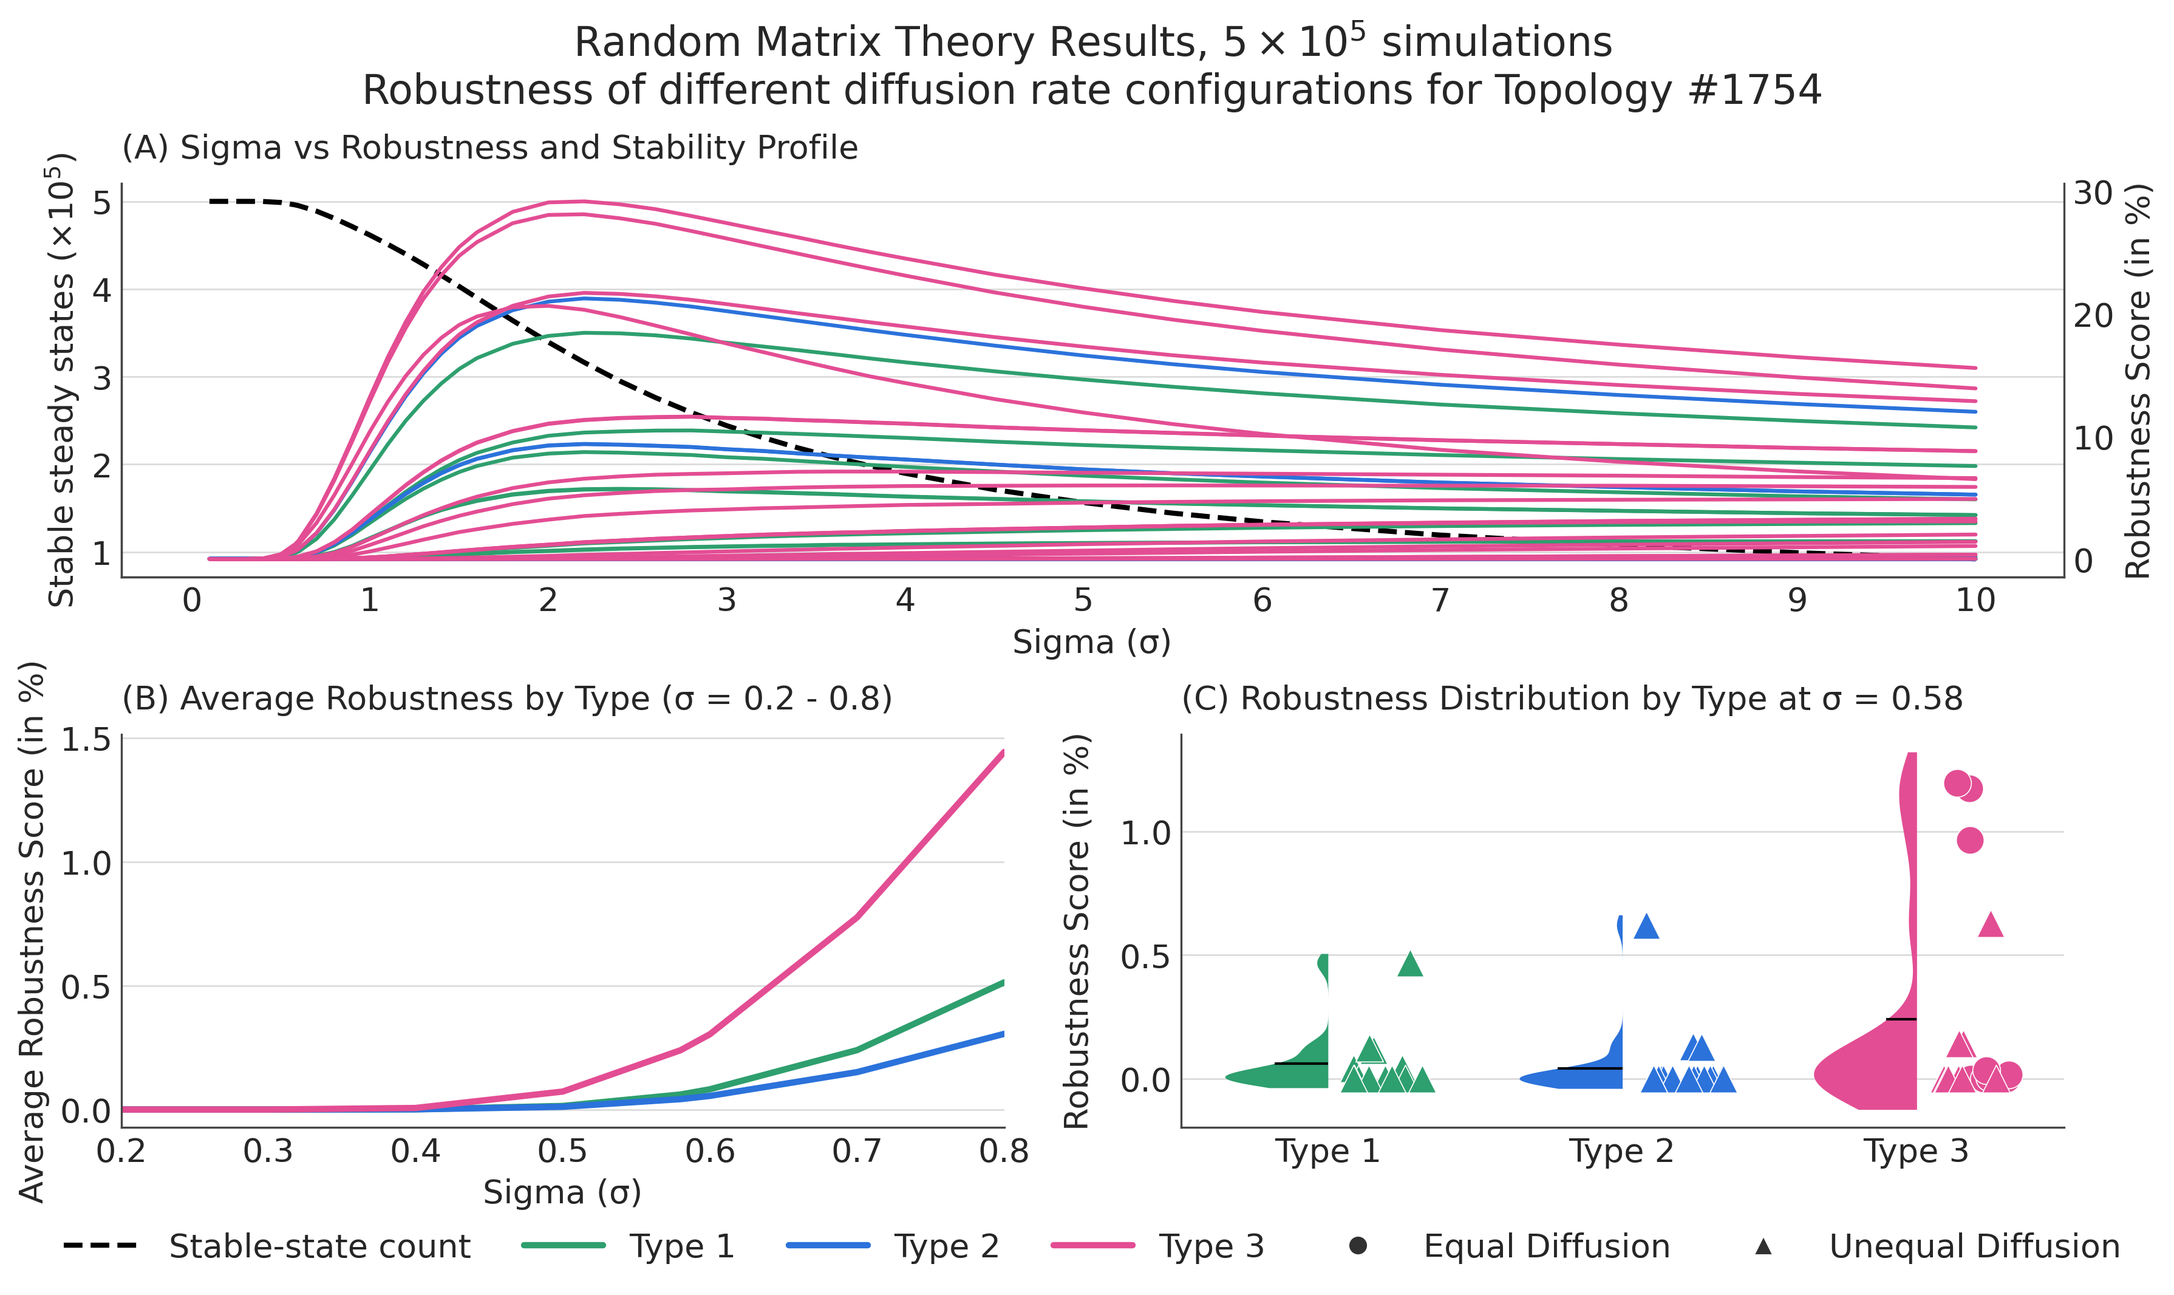
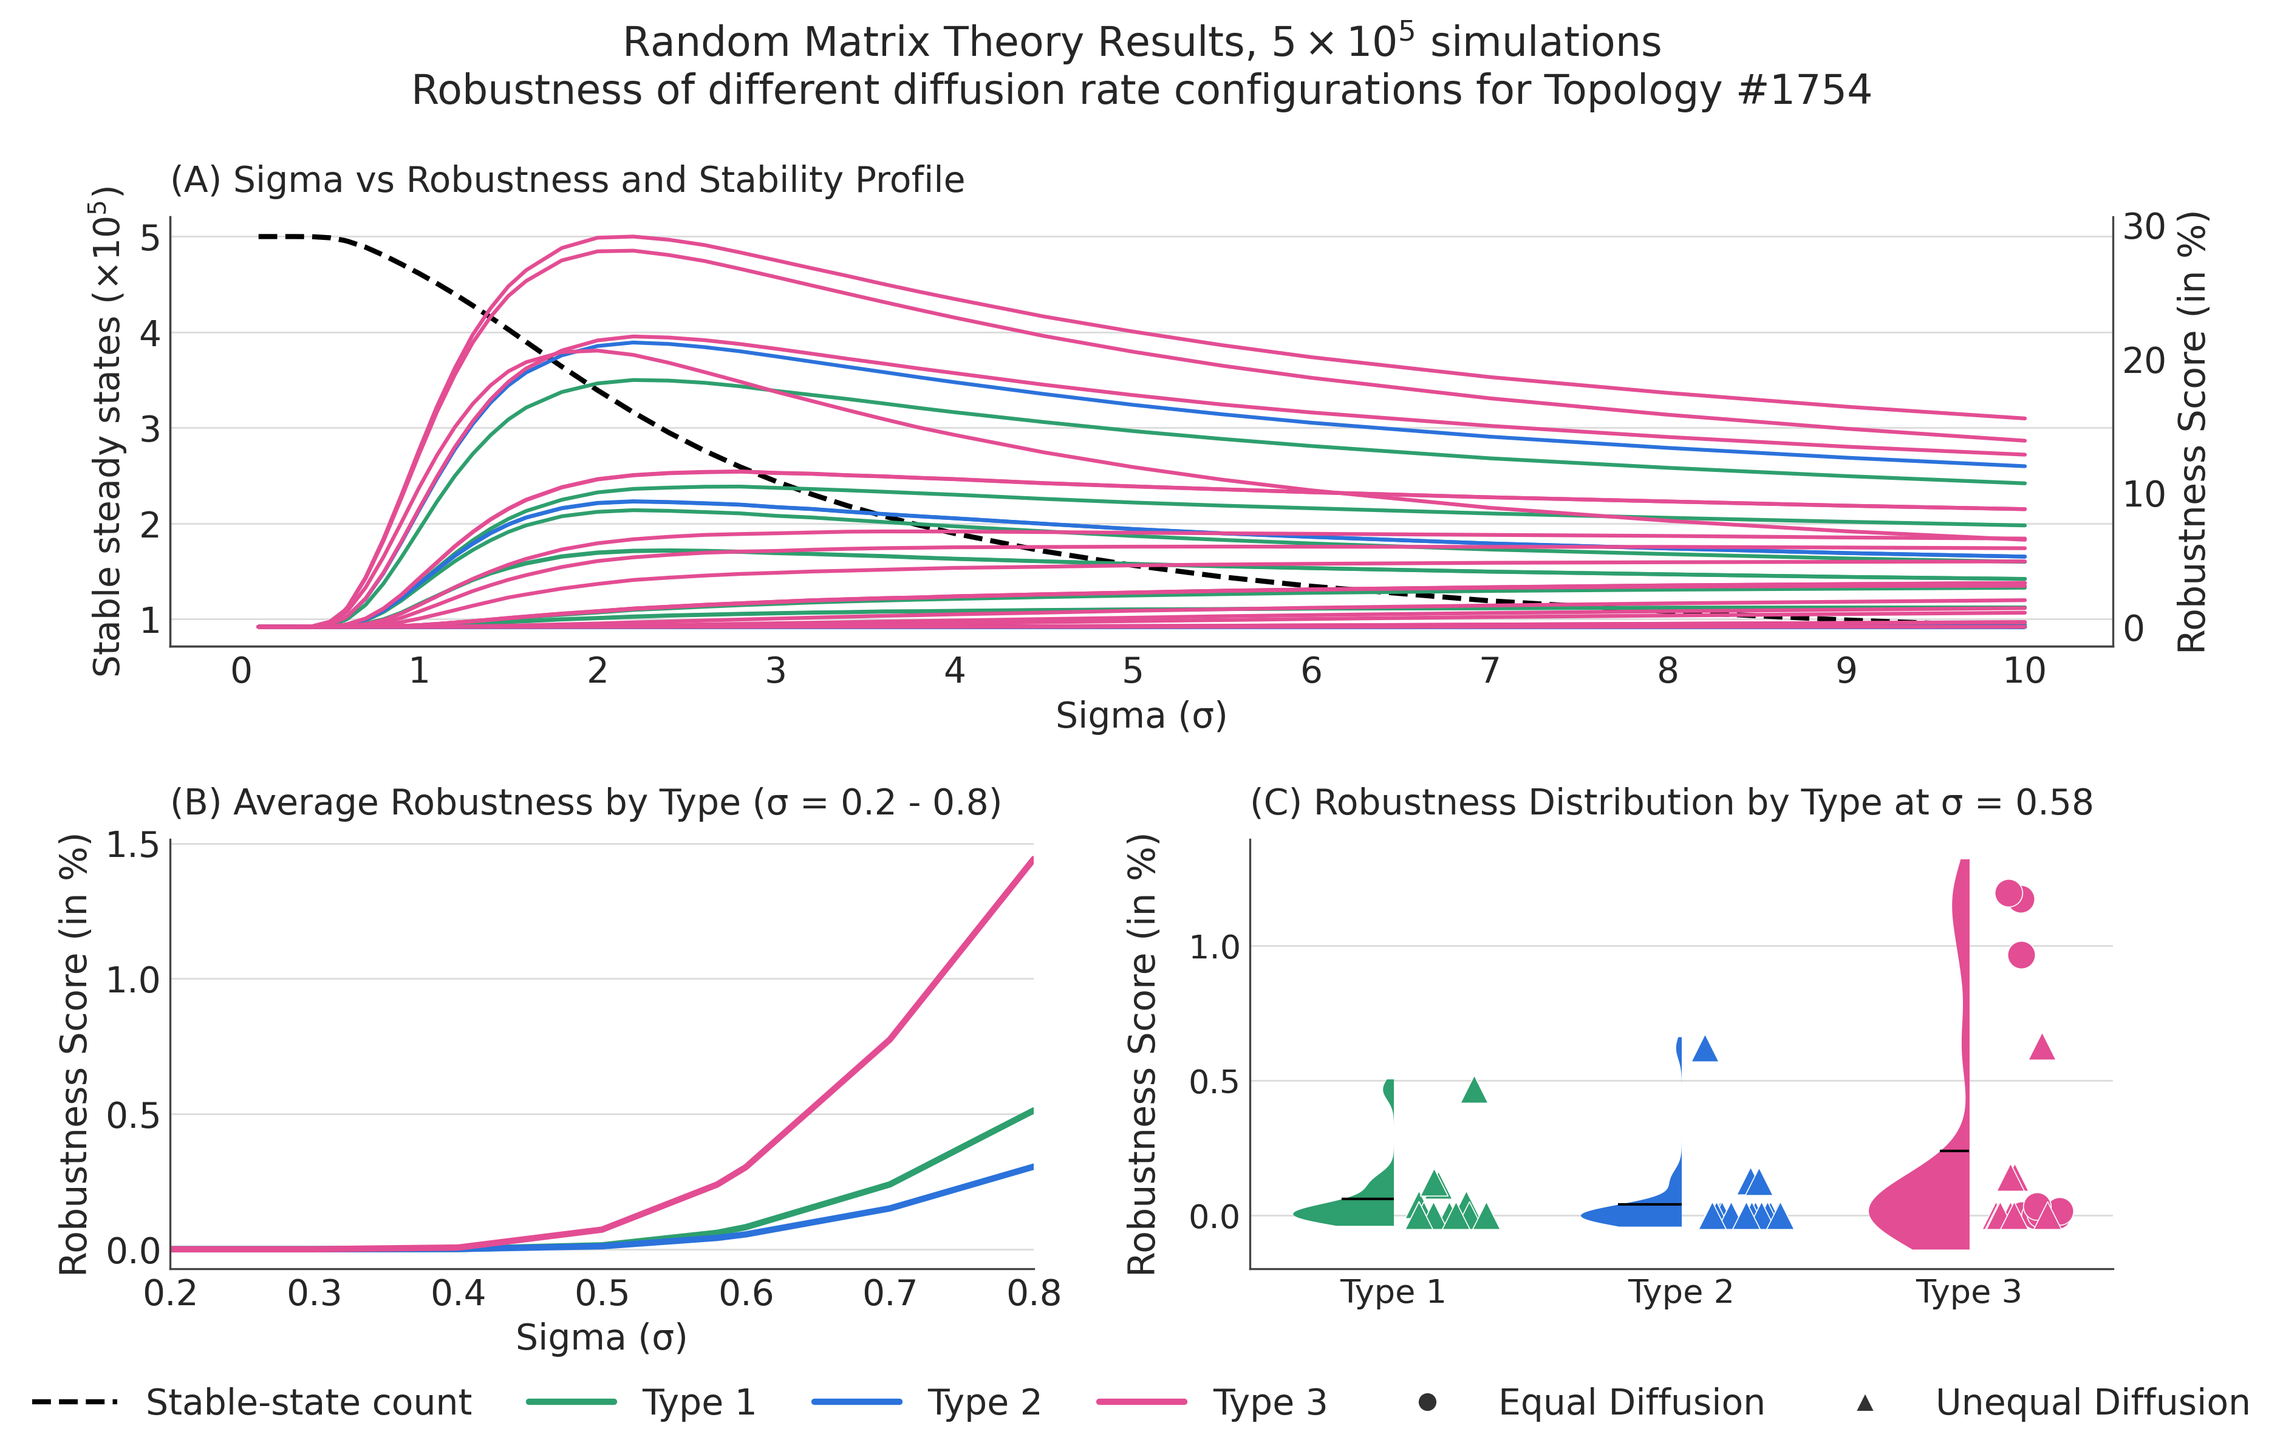
fixing the plots

diff --git a/TopologyRanking/Topology1754/rmt_plots_results_1754.py b/TopologyRanking/Topology1754/rmt_plots_results_1754.py
@@ -7,6 +7,7 @@ import matplotlib.lines as mlines
 import matplotlib.patches as mpatches
 from scipy.stats import gaussian_kde
 import matplotlib.gridspec as gridspec
+import matplotlib.ticker as mticker
 
 CSV     = "1754_FINAL_rmt_results_summary.csv"
 OUT_DIR = Path("plots")
@@ -41,151 +42,12 @@ def load_data():
     df["turing_type"] = df["config_name"].str.extract(r"(Type[123])")
     return df
 
-#TYPE_COLORS = {"Type1": 'lightseagreen', "Type2": 'teal', "Type3": 'mediumpurple',} 
 TYPE_COLORS = {"Type1": "#2E9F6E", "Type2": "#2B72DB", "Type3": "#E34D93"}
 
-
-# def complete_robustness_figure(df, sigma_val):
-#     random.seed(42)
-#     fig = plt.figure(figsize=(12.8, 7.5))
-#     gs = gridspec.GridSpec(2, 2, figure=fig, height_ratios=[1, 1])
-#     ax_stable = fig.add_subplot(gs[0, :])
-#     ax_avg = fig.add_subplot(gs[1, 0])
-#     ax_dot = fig.add_subplot(gs[1, 1])
-
-#     # # PANEL A: SIGMA VS ROBUSTNESS OVERVIEW (TOP ROW)
-#     # stable = df.groupby('sigma')['stable_without_diffusion'].first()
-#     # ax_stable.plot(stable.index, stable.values, color='black', linewidth=2, linestyle='--', label='Stable steady state count', zorder=5)
-#     # ax_stable.set_xticks(range(int(stable.index.min()), int(stable.index.max()) + 1))
-#     # ax_stable.set_xlabel('Sigma (σ)', fontsize=12)
-#     # ax_stable.set_ylabel('Number of stable steady states', fontsize=12)
-    
-#     # # ---> FIX FOR 10^X FORMATTING HERE <---
-#     # ax_stable.ticklabel_format(axis='y', style='sci', scilimits=(0,0))
-#     # ax_stable.yaxis.get_offset_text().set_fontsize(10)
-#     # ax_stable.xaxis.grid(False)
-
-#     # PANEL A: SIGMA VS ROBUSTNESS OVERVIEW (TOP ROW)
-#     stable = df.groupby('sigma')['stable_without_diffusion'].first()
-#     ax_stable.plot(stable.index, stable.values, color='black', linewidth=2, linestyle='--', label='Stable steady state count', zorder=5)
-#     ax_stable.set_xticks(range(int(stable.index.min()), int(stable.index.max()) + 1))
-#     ax_stable.set_xlabel('Sigma (σ)', fontsize=12)
-#     ax_stable.set_ylabel('Number of stable steady states', fontsize=12)
-    
-#     # ---> FIX FOR ADVANCED SCIENTIFIC NOTATION <---
-#     import matplotlib.ticker as mticker
-#     def sci_notation(x, pos):
-#         if x == 0: return "0"
-#         exponent = int(np.floor(np.log10(abs(x))))
-#         base = x / (10 ** exponent)
-#         if abs(base - 1) < 1e-9:
-#             return f"$10^{{{exponent}}}$"
-#         # Using a clean format string with an integer cast for the base multiplier
-#         return f"${int(base)} \\times 10^{{{exponent}}}$"
-
-#     ax_stable.yaxis.set_major_formatter(mticker.FuncFormatter(sci_notation))
-#     ax_stable.xaxis.grid(False)
-
-#     ax_rob = ax_stable.twinx()
-#     labeled_types = set()
-#     for cfg in df['config_name'].unique():
-#         subset = df[df['config_name'] == cfg].sort_values('sigma')
-#         t_type = subset['turing_type'].iloc[0]
-#         line_color = TYPE_COLORS.get(t_type, 'black')
-#         formatted_label = f"Type {t_type[-1]}" if t_type else "Unknown Type"
-        
-#         if t_type not in labeled_types:
-#             label = formatted_label
-#             labeled_types.add(t_type)
-#         else:
-#             label = ""
-#         ax_rob.plot(subset['sigma'], subset['rob_shaberi_total'], color=line_color, linewidth=1.5, label=label, zorder=3)
-
-#     ax_rob.set_ylabel('Robustness Score (in %)', fontsize=12)
-#     ax_rob.spines['right'].set_visible(True)
-#     ax_rob.spines['top'].set_visible(False)
-#     ax_rob.yaxis.grid(False)
-#     ax_rob.xaxis.grid(False)
-
-#     ax_stable.set_title('(A) Sigma vs Robustness and Stability Profile', fontsize=12.5, loc='left', pad=10)
-#     lines1, labels1 = ax_stable.get_legend_handles_labels()
-#     lines2, labels2 = ax_rob.get_legend_handles_labels()
-#     ax_stable.legend(lines1 + lines2, labels1 + labels2, frameon=False, loc='upper center', bbox_to_anchor=(0.5, -0.15), ncol=4)
-
-#     # PANEL B: FOCUSED AVERAGE ROBUSTNESS LINE (BOTTOM LEFT)
-#     focused_df = df[(df['sigma'] >= 0.2) & (df['sigma'] <= 0.8)].copy()
-#     avg_df = focused_df.groupby(['sigma', 'turing_type'])['rob_shaberi_total'].mean().reset_index()
-#     types = ['Type1', 'Type2', 'Type3']
-#     labels = ['Type 1 Average', 'Type 2 Average', 'Type 3 Average']
-#     for t, label in zip(types, labels):
-#         subset = avg_df[avg_df['turing_type'] == t].sort_values('sigma')
-#         if subset.empty:
-#             continue
-#         color = TYPE_COLORS.get(t, 'black')
-#         ax_avg.plot(subset['sigma'], subset['rob_shaberi_total'], color=color, linewidth=2.5, label=label)
-
-#     ax_avg.set_xlabel('Sigma (σ)', fontsize=11)
-#     ax_avg.set_ylabel('Average Robustness Score (in %)', fontsize=12)
-#     ax_avg.set_xlim(0.2, 0.8)
-#     ax_avg.spines[['top', 'right']].set_visible(False)
-#     ax_avg.xaxis.grid(False)
-#     ax_avg.yaxis.grid(True)
-#     ax_avg.set_title('(B) Average Robustness by Diffusion Type (σ = 0.2 to 0.8)', fontsize=12, loc='left', pad=10)
-#     ax_avg.legend(frameon=False, loc='upper center', bbox_to_anchor=(0.5, -0.15), ncol=3)
-
-#     # PANEL C: RAINCLOUD DOT PLOT AT FIXED SIGMA (BOTTOM RIGHT)
-#     subset_df = df[df['sigma'] == sigma_val].copy()
-#     dot_labels = ['Type 1', 'Type 2', 'Type 3']
-#     for i, t in enumerate(types):
-#         t_data = subset_df[subset_df['turing_type'] == t]['rob_shaberi_total'].dropna().values
-#         if len(t_data) == 0:
-#             continue
-#         color = TYPE_COLORS[t]
-#         kde = gaussian_kde(t_data, bw_method=0.3)
-#         y_range = np.linspace(t_data.min() - t_data.std()*0.3, t_data.max() + t_data.std()*0.3, 200)
-#         kde_vals = kde(y_range)
-#         kde_vals = kde_vals / kde_vals.max() * 0.35
-#         ax_dot.fill_betweenx(y_range, i - kde_vals, i, color=color, alpha=1.0, linewidth=0, zorder=2)
-        
-#         mean_val = t_data.mean()
-#         closest_idx = np.argmin(np.abs(y_range - mean_val))
-#         kde_at_mean = kde_vals[closest_idx]
-#         ax_dot.hlines(mean_val, i - kde_at_mean, i, color='black', linewidth=1.0, zorder=4)
-        
-#         for val in t_data:
-#             jitter = i + random.uniform(0.08, 0.35)
-#             marker = ('^' if any('Unequal' in row['config_name'] for _, row in subset_df[(subset_df['turing_type'] == t) & (subset_df['rob_shaberi_total'] == val)].iterrows()) else 'o')
-#             ax_dot.scatter(jitter, val, color=color, marker=marker, s=120, edgecolors='white', linewidths=0.4, zorder=3)
-
-#     ax_dot.set_xticks(range(len(types)))
-#     ax_dot.set_xticklabels(dot_labels, fontsize=12)
-#     ax_dot.set_ylabel('Robustness Score (in %)', fontsize=12, labelpad=10)
-#     ax_dot.xaxis.grid(False)
-#     ax_dot.yaxis.grid(True)
-#     ax_dot.set_xlim(-0.5, len(types) - 0.5)
-#     ax_dot.spines[['top', 'right']].set_visible(False)
-#     ax_dot.set_title(f'(C) Robustness Distribution by Diffusion Type at σ = {sigma_val}', fontsize=12.5, loc='left', pad=10)
-    
-#     rain_handles = [
-#         mlines.Line2D([], [], color='#313131', marker='o', linestyle='None', markersize=8, markeredgecolor='white', label='Equal Diffusion'),
-#         mlines.Line2D([], [], color='#313131', marker='^', linestyle='None', markersize=8, markeredgecolor='white', label='Unequal Diffusion')
-#     ]
-#     ax_dot.legend(handles=rain_handles, frameon=False, loc='upper center', bbox_to_anchor=(0.5, -0.15), ncol=2, fontsize=12)
-
-#     fig.suptitle("Random Matrix Theory Results, 1 million simulations\nRobustness of different diffusion rate configurations for Topology #1754", fontsize=13, y=0.98)
-#     fig.subplots_adjust(left=0.06, right=0.94, top=0.86, bottom=0.1, hspace=0.5, wspace=0.2)
-#     save(fig, f'final_1754_rmt_overview_sigma')
-
-
-
-
-
-
 def complete_robustness_figure(df, sigma_val):
-    import matplotlib.ticker as mticker
 
     random.seed(42)
-    fig = plt.figure(figsize=(12.4, 7))
+    fig = plt.figure(figsize=(12.4, 7.8))
     gs = gridspec.GridSpec(2, 2, figure=fig, height_ratios=[1, 1])
     ax_stable = fig.add_subplot(gs[0, :])
     ax_avg = fig.add_subplot(gs[1, 0])
@@ -195,13 +57,13 @@ def complete_robustness_figure(df, sigma_val):
     stable = df.groupby('sigma')['stable_without_diffusion'].first()
     ax_stable.plot(stable.index, stable.values, color='black', linewidth=2, linestyle='--', zorder=5,)
     ax_stable.set_xticks(range(int(stable.index.min()), int(stable.index.max()) + 1))
-    ax_stable.set_xlabel('Sigma (σ)', fontsize=13)
-    ax_stable.tick_params(axis='x', labelsize=13)
+    ax_stable.set_xlabel('Sigma (σ)', fontsize=14)
+    ax_stable.tick_params(axis='x', labelsize=14)
 
     # Show 100,000, 200,000, ... as 1, 2, ... and put the scale in the label once.
     ax_stable.yaxis.set_major_formatter(mticker.FuncFormatter(lambda value, position: f'{value / 1e5:g}'))
-    ax_stable.set_ylabel(r'Stable steady states ($\times 10^5$)', fontsize=13)
-    ax_stable.tick_params(axis='y', labelsize=13)
+    ax_stable.set_ylabel(r'Stable steady states ($\times 10^5$)', fontsize=14)
+    ax_stable.tick_params(axis='y', labelsize=14)
     ax_stable.xaxis.grid(False)
 
     ax_rob = ax_stable.twinx()
@@ -211,13 +73,13 @@ def complete_robustness_figure(df, sigma_val):
         line_color = TYPE_COLORS.get(t_type, 'black')
         ax_rob.plot(subset['sigma'],subset['rob_shaberi_total'],color=line_color,linewidth=1.5,zorder=3,)
 
-    ax_rob.set_ylabel('Robustness Score (in %)', fontsize=13)
-    ax_rob.tick_params(axis='y', labelsize=13)
+    ax_rob.set_ylabel('Robustness Score (in %)', fontsize=14.5)
+    ax_rob.tick_params(axis='y', labelsize=14)
     ax_rob.spines['right'].set_visible(True)
     ax_rob.spines['top'].set_visible(False)
     ax_rob.yaxis.grid(False)
     ax_rob.xaxis.grid(False)
-    ax_stable.set_title('(A) Sigma vs Robustness and Stability Profile',fontsize=13,loc='left',pad=10,)
+    ax_stable.set_title('(A) Sigma vs Robustness and Stability Profile',fontsize=14,loc='left',pad=10,)
 
     # PANEL B: FOCUSED AVERAGE ROBUSTNESS LINE (BOTTOM LEFT)
     focused_df = df[(df['sigma'] >= 0.2) & (df['sigma'] <= 0.8)].copy()
@@ -231,15 +93,15 @@ def complete_robustness_figure(df, sigma_val):
         color = TYPE_COLORS.get(t, 'black')
         ax_avg.plot(subset['sigma'],subset['rob_shaberi_total'],color=color,linewidth=2.5,)
 
-    ax_avg.set_xlabel('Sigma (σ)', fontsize=13)
-    ax_avg.tick_params(axis='x', labelsize=13)
-    ax_avg.set_ylabel('Average Robustness Score (in %)', fontsize=13)
-    ax_avg.tick_params(axis='y', labelsize=13)
+    ax_avg.set_xlabel('Sigma (σ)', fontsize=14)
+    ax_avg.tick_params(axis='x', labelsize=14)
+    ax_avg.set_ylabel('Robustness Score (in %)', fontsize=14.5)
+    ax_avg.tick_params(axis='y', labelsize=14)
     ax_avg.set_xlim(0.2, 0.8)
     ax_avg.spines[['top', 'right']].set_visible(False)
     ax_avg.xaxis.grid(False)
     ax_avg.yaxis.grid(True)
-    ax_avg.set_title('(B) Average Robustness by Type (σ = 0.2 - 0.8)',fontsize=13,loc='left',pad=10,)
+    ax_avg.set_title('(B) Average Robustness by Type (σ = 0.2 - 0.8)',fontsize=14,loc='left',pad=10,)
 
     # PANEL C: RAINCLOUD DOT PLOT AT FIXED SIGMA (BOTTOM RIGHT)
     subset_df = df[df['sigma'] == sigma_val].copy()
@@ -275,13 +137,13 @@ def complete_robustness_figure(df, sigma_val):
 
     ax_dot.set_xticks(range(len(types)))
     ax_dot.set_xticklabels(dot_labels, fontsize=13)
-    ax_dot.set_ylabel('Robustness Score (in %)', fontsize=13, labelpad=10)
+    ax_dot.set_ylabel('Robustness Score (in %)', fontsize=14.5, labelpad=10)
     ax_dot.tick_params(axis='y', labelsize=13)
     ax_dot.xaxis.grid(False)
     ax_dot.yaxis.grid(True)
     ax_dot.set_xlim(-0.5, len(types) - 0.5)
     ax_dot.spines[['top', 'right']].set_visible(False)
-    ax_dot.set_title(f'(C) Robustness Distribution by Type at σ = {sigma_val}',fontsize=13,loc='left',pad=10,)
+    ax_dot.set_title(f'(C) Robustness Distribution by Type at σ = {sigma_val}',fontsize=14,loc='left',pad=10,)
 
     global_handles = [
         mlines.Line2D([], [], color='black', linewidth=2, linestyle='--',label='Stable-state count'),
@@ -291,9 +153,9 @@ def complete_robustness_figure(df, sigma_val):
         mlines.Line2D([], [], color='#313131', marker='o', linestyle='None',markersize=8, markeredgecolor='white', label='Equal Diffusion',),
         mlines.Line2D([], [], color='#313131', marker='^', linestyle='None',markersize=8, markeredgecolor='white', label='Unequal Diffusion',),]
 
-    fig.legend(handles=global_handles, frameon=False, loc='lower center', bbox_to_anchor=(0.5, -0.01), ncol=6, fontsize=13, handlelength=2.4, columnspacing=1.6,)
-    fig.suptitle('Random Matrix Theory Results, $5 \\times 10^5$ simulations\n' 'Robustness of different diffusion rate configurations for Topology #1754', fontsize=16, y=0.99,)
-    fig.subplots_adjust(left=0.07, right=0.93, top=0.86, bottom=0.12, hspace=0.4, wspace=0.2,) # hspace is gap between Panel A and Panels B/C,  wspace is gap between Panels B and C
+    fig.legend(handles=global_handles, frameon=False, loc='lower center', bbox_to_anchor=(0.5, -0.01), ncol=6, fontsize=14, handlelength=2.4, columnspacing=1.6,)
+    fig.suptitle('Random Matrix Theory Results, $5 \\times 10^5$ simulations\n' 'Robustness of different diffusion rate configurations for Topology #1754', fontsize=16, y=1.0,)
+    fig.subplots_adjust(left=0.07, right=0.93, top=0.86, bottom=0.12, hspace=0.45, wspace=0.25,) # hspace is gap between Panel A and Panels B/C,  wspace is gap between Panels B and C
     save(fig, 'final_1754_rmt_overview_sigma')
 
 

diff --git a/TopologyRanking/Topology1754/lhs_plots_results_1754.py b/TopologyRanking/Topology1754/lhs_plots_results_1754.py
@@ -103,9 +103,9 @@ def fig_combined_overview_and_raincloud(df):
 
     #ax1.set_xticklabels(df["config_name"].str.replace(r"FINAL_LHS_3954_|Type\d*_", "", regex=True),rotation=55,ha="right",fontsize=8,)
     ax1.set_xticklabels(df["config_id"], rotation=50, ha="right", fontsize=12)
-    ax1.set_xlabel("ID of Diffusion Configurations", fontsize=15)
+    ax1.set_xlabel("ID of Diffusion Configurations", fontsize=15, color="black")
 
-    ax1.set_ylabel("Robustness Score (in %)", fontsize=15, labelpad=10)
+    ax1.set_ylabel("Robustness Score (in %)", fontsize=15, labelpad=10, color="black")
     ax1.tick_params(axis='y', labelsize=13)
     #ax1.set_title("Latin Hypercube Sampling Results, 1 million simulations\nRobustness of different diffusion rate configurations for Topology #1754",fontsize=16,loc="center",pad=10,)
     ax1.set_title("Latin Hypercube Sampling Results, $10^6$ simulations\nRobustness of different diffusion rate configurations for Topology #1754", fontsize=16, loc="center", pad=10)
@@ -150,8 +150,8 @@ def fig_combined_overview_and_raincloud(df):
             ax2.scatter(jitter,val,color=color,marker=marker,s=100,edgecolors="white",linewidths=0.4,zorder=3,)
 
     ax2.set_xticks(range(len(types)))
-    ax2.set_xticklabels(labels, fontsize=13)
-    ax2.set_ylabel("Robustness Score (in %)", fontsize=14, labelpad=10)
+    ax2.set_xticklabels(labels, fontsize=14)
+    ax2.set_ylabel("Robustness Score (in %)", fontsize=15, labelpad=10, color="black")
     ax2.tick_params(axis='y', labelsize=13)
     ax2.set_title("Robustness distribution by Type for Topology #1754",fontsize=16,loc="center",pad=10,)
     ax2.xaxis.grid(False)
@@ -166,7 +166,7 @@ def fig_combined_overview_and_raincloud(df):
 
     fig.legend(handles=bar_handles,frameon=False,loc="lower center",bbox_to_anchor=(0.3, 0.02),ncol=3,fontsize=15) # title="Turing Type"
     fig.legend(handles=rain_handles,frameon=False,loc="lower center",bbox_to_anchor=(0.7, 0.02),ncol=2,fontsize=15) # title="Diffusion Variant",
-    fig.subplots_adjust(left=0.07, right=0.95, top=0.96, bottom=0.14, hspace=0.5)
+    fig.subplots_adjust(left=0.07, right=0.95, top=0.96, bottom=0.14, hspace=0.55)
 
     save(fig, "final_1754_lhs_overview")
 
